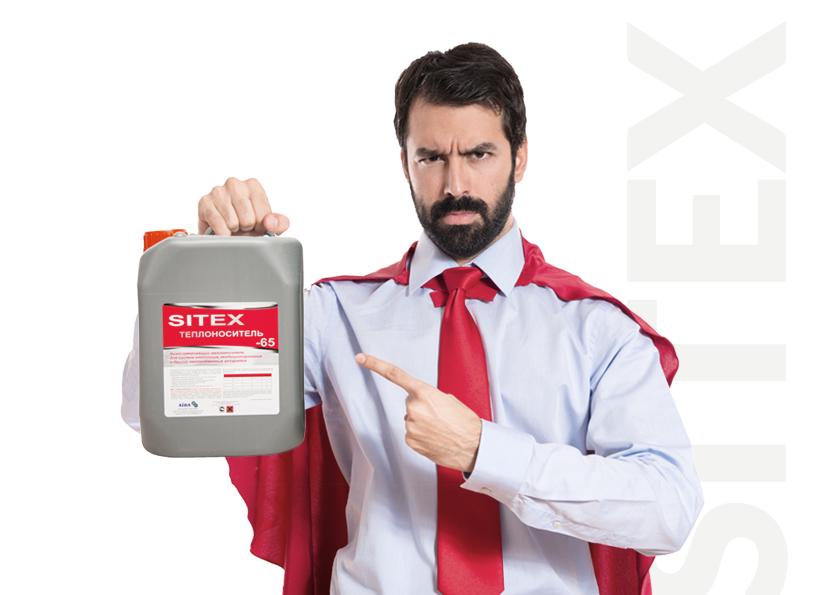
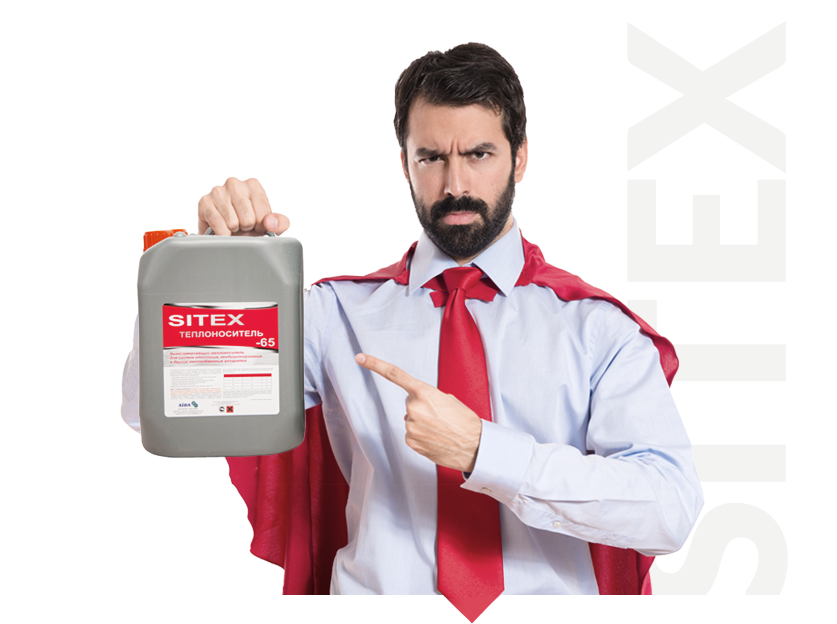
slider header finish desktop

diff --git a/css/styles.min.css b/css/styles.min.css
@@ -1,1 +1,1 @@
-@font-face{font-family:proxima-nova-extrabold;src:url(../fonts/proxima-nova/proxima-nova-extrabold.woff) format("woff"),url(../fonts/proxima-nova/proxima-nova-extrabold.woff2) format("woff2");font-weight:400}@font-face{font-family:Lato-Black;src:url(../fonts/lato/LatoBlack.woff) format("woff"),url(../fonts/lato/LatoBlack.woff2) format("woff2");font-weight:400}@font-face{font-family:Lato-Regular;src:url(../fonts/lato/LatoRegular.woff) format("woff"),url(../fonts/lato/LatoRegular.woff2) format("woff2");font-weight:400}@font-face{font-family:Lato-Medium;src:url(../fonts/lato/LatoMedium.woff) format("woff"),url(../fonts/lato/LatoMedium.woff2) format("woff2");font-weight:400}body,html{width:100%}body{margin:0;padding:0;border:0;font-style:inherit;text-align:left;vertical-align:baseline;font-family:Lato-Regular}a,a:active,a:focus,a:hover{text-decoration:none}input,input:active,input:focus,input:hover,textarea,textarea:active,textarea:focus,textarea:hover{outline:none}.container{*zoom:1}.container:after{content:"";display:table;line-height:0;clear:both}.container{-webkit-box-sizing:border-box;box-sizing:border-box;padding-right:10px;padding-left:10px;margin-right:auto;margin-left:auto;position:relative}@media (min-width:768px){.container{width:766px}}@media (min-width:992px){.container{width:990px}}@media (min-width:1200px){.container{width:1170px}}.clearfix{overflow:hidden;clear:both}.feedback-btn{padding:12px 23px;-webkit-border-radius:10px;border-radius:10px;background-color:#e2261d;border:0;text-shadow:1px 1px 3px rgba(29,29,29,.7);color:#fff;font-family:Lato-Black;font-size:12px;font-weight:400;text-transform:uppercase}.feedback-btn,.feedback-btn:hover{-webkit-transition:.2s ease;-o-transition:.2s ease;transition:.2s ease}.feedback-btn:hover{background:#b51e17}.header{float:left;width:100%;position:relative;background-color:#f7f6f6}.header__wrap{display:-webkit-box;display:-webkit-flex;display:-ms-flexbox;display:flex;-webkit-box-pack:justify;-webkit-justify-content:space-between;-ms-flex-pack:justify;justify-content:space-between;-webkit-box-align:center;-webkit-align-items:center;-ms-flex-align:center;align-items:center;margin-top:45px;margin-bottom:45px}.header__logo{color:#1b1b1b;font-family:Lato-Black;font-size:35px;text-transform:uppercase}.header__logo:hover{color:#1b1b1b}.header__logo-desc{width:214px;color:#1b1b1b;font-size:13px;line-height:16px}.header__logo-desc span{color:#fd2a43}.header__nav{padding:0;margin:0;list-style:none}.header__nav li{display:inline-block;margin:0 15px}.header__nav li a{color:#000;font-family:Lato-Medium;font-size:13px;font-weight:500;line-height:16px}.header__contact{color:#1b1b1b;text-align:right;width:140px;margin-right:15px;font-family:Lato-Black;font-size:16px;line-height:16px}.header__contact span{font-family:Lato-Regular;font-size:13px}.header__slider{margin-top:60px}.header__slider,.header__slider-wrap{position:relative;float:left;width:100%}.header__slider-wrap{padding-left:60px}.header__title{width:435px;color:#1b1b1b;font-family:proxima-nova-extrabold;font-size:40px;line-height:50px;margin-top:0;margin-bottom:15px;text-transform:uppercase}.header__desc{width:551px;margin-top:0;margin-bottom:45px;color:#1b1b1b;font-size:19px;line-height:21px}.header__advantage{position:relative;width:100%;float:left;margin-bottom:25px}.header__advantage img{width:34px;height:34px;-o-object-fit:contain;object-fit:contain;display:inline-block;float:left}.header__advantage h4{margin:0;color:#1b1b1b;font-family:Lato-Black;text-transform:uppercase;font-size:15px}.header__advantage p{margin:0;width:200px;color:#1b1b1b;font-size:15px}.header__advantage-wrap{display:inline-block;margin-left:15px;float:left}.header__img-absolute{width:837px;height:595px;position:absolute;top:0;right:-140px;background:url(../img/1.png) no-repeat 100%;-webkit-background-size:contain;background-size:contain}
+@font-face{font-family:proxima-nova-extrabold;src:url(../fonts/proxima-nova/proxima-nova-extrabold.woff) format("woff"),url(../fonts/proxima-nova/proxima-nova-extrabold.woff2) format("woff2");font-weight:400}@font-face{font-family:Lato-Black;src:url(../fonts/lato/LatoBlack.woff) format("woff"),url(../fonts/lato/LatoBlack.woff2) format("woff2");font-weight:400}@font-face{font-family:Lato-Regular;src:url(../fonts/lato/LatoRegular.woff) format("woff"),url(../fonts/lato/LatoRegular.woff2) format("woff2");font-weight:400}@font-face{font-family:Lato-Medium;src:url(../fonts/lato/LatoMedium.woff) format("woff"),url(../fonts/lato/LatoMedium.woff2) format("woff2");font-weight:400}body,html{width:100%}body{margin:0;padding:0;border:0;font-style:inherit;text-align:left;vertical-align:baseline;font-family:Lato-Regular}a,a:active,a:focus,a:hover{text-decoration:none}input,input:active,input:focus,input:hover,textarea,textarea:active,textarea:focus,textarea:hover{outline:none}.container{*zoom:1}.container:after{content:"";display:table;line-height:0;clear:both}.container{-webkit-box-sizing:border-box;box-sizing:border-box;padding-right:10px;padding-left:10px;margin-right:auto;margin-left:auto;position:relative}@media (min-width:768px){.container{width:766px}}@media (min-width:992px){.container{width:990px}}@media (min-width:1200px){.container{width:1170px}}.clearfix{overflow:hidden;clear:both}.feedback-btn{padding:12px 23px;-webkit-border-radius:10px;border-radius:10px;background-color:#e2261d;border:0;text-shadow:1px 1px 3px rgba(29,29,29,.7);color:#fff;font-family:Lato-Black;font-size:12px;font-weight:400;text-transform:uppercase}.feedback-btn,.feedback-btn:hover{-webkit-transition:.2s ease;-o-transition:.2s ease;transition:.2s ease}.feedback-btn:hover{background:#b51e17}.mgt-25{margin-top:25px}.mgb-25{margin-bottom:25px}.header{float:left;width:100%;position:relative;background-color:#f7f6f6}.header__wrap{display:-webkit-box;display:-webkit-flex;display:-ms-flexbox;display:flex;-webkit-box-pack:justify;-webkit-justify-content:space-between;-ms-flex-pack:justify;justify-content:space-between;-webkit-box-align:center;-webkit-align-items:center;-ms-flex-align:center;align-items:center;margin-top:45px;margin-bottom:45px}.header__logo{color:#1b1b1b;font-family:Lato-Black;font-size:35px;text-transform:uppercase}.header__logo:hover{color:#1b1b1b}.header__logo-desc{width:214px;color:#1b1b1b;font-size:13px;line-height:16px}.header__logo-desc span{color:#fd2a43}.header__nav{padding:0;margin:0;list-style:none}.header__nav li{display:inline-block;margin:0 15px}.header__nav li a{color:#000;font-family:Lato-Medium;font-size:13px;font-weight:500;line-height:16px}.header__contact{color:#1b1b1b;text-align:right;width:140px;margin-right:15px;font-family:Lato-Black;font-size:16px;line-height:16px}.header__contact span{font-family:Lato-Regular;font-size:13px}.header__slider{margin-top:60px}.header__slider,.header__slider-wrap{position:relative;float:left;width:100%}.header__slider-wrap{padding-left:60px}.header__title{width:435px;color:#1b1b1b;font-family:proxima-nova-extrabold;font-size:40px;line-height:50px;margin-top:0;margin-bottom:15px;text-transform:uppercase}.header__desc{width:551px;margin-top:0;margin-bottom:45px;color:#1b1b1b;font-size:19px;line-height:21px}.header__advantage{position:relative;width:100%;float:left;margin-bottom:25px}.header__advantage img{width:34px;height:34px;-o-object-fit:contain;object-fit:contain;display:inline-block;float:left}.header__advantage h4{margin:0;color:#1b1b1b;font-family:Lato-Black;text-transform:uppercase;font-size:15px}.header__advantage p{margin:0;width:200px;color:#1b1b1b;font-size:15px}.header__advantage-wrap{display:inline-block;margin-left:15px;float:left}.header__slider-nav{list-style:none;margin:64px 0 54px;padding:0}.header__slider-nav li{display:inline-block;margin-right:35px;color:#1b1b1b;font-size:14px;line-height:21px;text-transform:uppercase}.header__img-absolute{width:837px;height:608px;position:absolute;bottom:-30px;right:-140px;background:url(../img/1.png) no-repeat 100%;-webkit-background-size:contain;background-size:contain}

diff --git a/index.html b/index.html
@@ -72,6 +72,12 @@
                         </p>
                     </div>
                 </div>
+                <button class="feedback-btn mgt-25 mgb-25">Узнать стоимость</button>
+                <ul class="header__slider-nav">
+                    <li>этиленгликоль</li>
+                    <li>водно-гликолевые растворы</li>
+                    <li>пропиленгликоль</li>
+                </ul>
             </div>
             <div class="header__img-absolute"></div>
         </div>
@@ -80,6 +86,13 @@
 
 
 <!-- end header.html-->
+
+<!-- start about.html-->
+<section class="about">
+    <div class="container">
+    </div>
+</section>
+<!-- end about.html-->
 
 <!-- start footer.html-->
 <footer>

diff --git a/app/sass/header/_head.scss b/app/sass/header/_head.scss
@@ -118,11 +118,26 @@
     margin-left: 15px;
     float: left;
   }
+
+  &__slider-nav{
+    list-style: none;
+    margin: 64px 0 54px 0;
+    padding: 0;
+    li{
+      display: inline-block;
+      margin-right: 35px;
+      color: #1b1b1b;
+      font-size: 14px;
+      line-height: 21px;
+      text-transform: uppercase;
+    }
+  }
+
   &__img-absolute{
     width: 837px;
-    height: 595px;
+    height: 608px;
     position: absolute;
-    top: 0;
+    bottom: -30px;
     right: -140px;
     background: url("../img/1.png") no-repeat center right;
     background-size: contain;

diff --git a/app/html/header.html b/app/html/header.html
@@ -55,6 +55,12 @@
                         </p>
                     </div>
                 </div>
+                <button class="feedback-btn mgt-25 mgb-25">Узнать стоимость</button>
+                <ul class="header__slider-nav">
+                    <li>этиленгликоль</li>
+                    <li>водно-гликолевые растворы</li>
+                    <li>пропиленгликоль</li>
+                </ul>
             </div>
             <div class="header__img-absolute"></div>
         </div>

diff --git a/app/sass/base/_elements.scss b/app/sass/base/_elements.scss
@@ -1,8 +1,9 @@
-.clearfix{
+.clearfix {
   overflow: hidden;
   clear: both;
 }
-.feedback-btn{
+
+.feedback-btn {
   padding: 12px 23px;
   border-radius: 10px;
   background-color: #e2261d;
@@ -14,8 +15,15 @@
   font-weight: 400;
   text-transform: uppercase;
   transition: 200ms ease;
-  &:hover{
+  &:hover {
     transition: 200ms ease;
     background: darken(#e2261d, 10%);
   }
+}
+
+.mgt-25 {
+  margin-top: 25px;
+}
+.mgb-25{
+  margin-bottom: 25px;
 }

diff --git a/app/html/pages/index.html b/app/html/pages/index.html
@@ -2,6 +2,8 @@
 
 <!-- @@include ../header.html -->
 
+<!-- @@include ../about.html-->
+
 <!-- @@include ../footer.html -->
 
 <!-- @@include ../html_close.html -->

diff --git a/app/html/about.html b/app/html/about.html
@@ -1,0 +1,4 @@
+<section class="about">
+    <div class="container">
+    </div>
+</section>

diff --git a/app/sass/content/_about.scss b/app/sass/content/_about.scss
@@ -1,0 +1,5 @@
+.about{
+  float: left;
+  width: 100%;
+  position: relative;
+}
